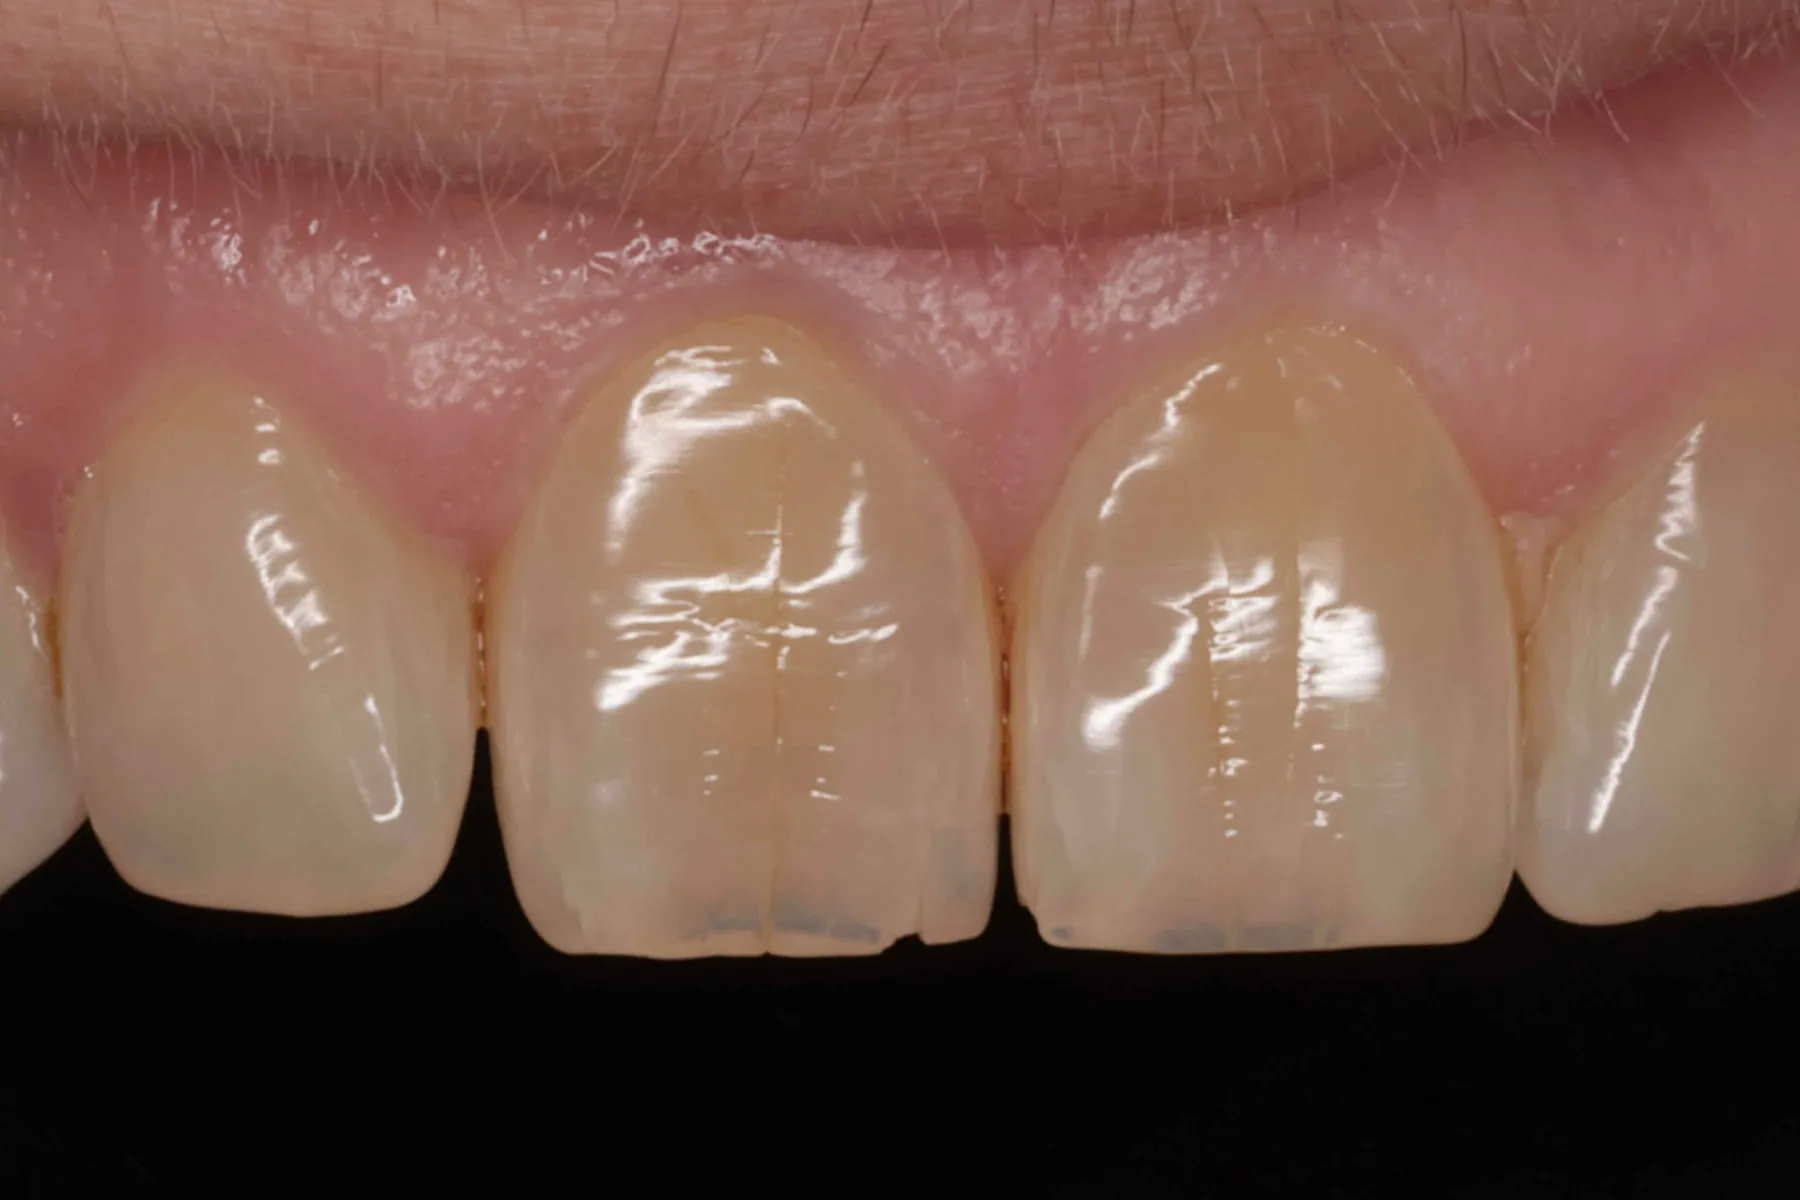
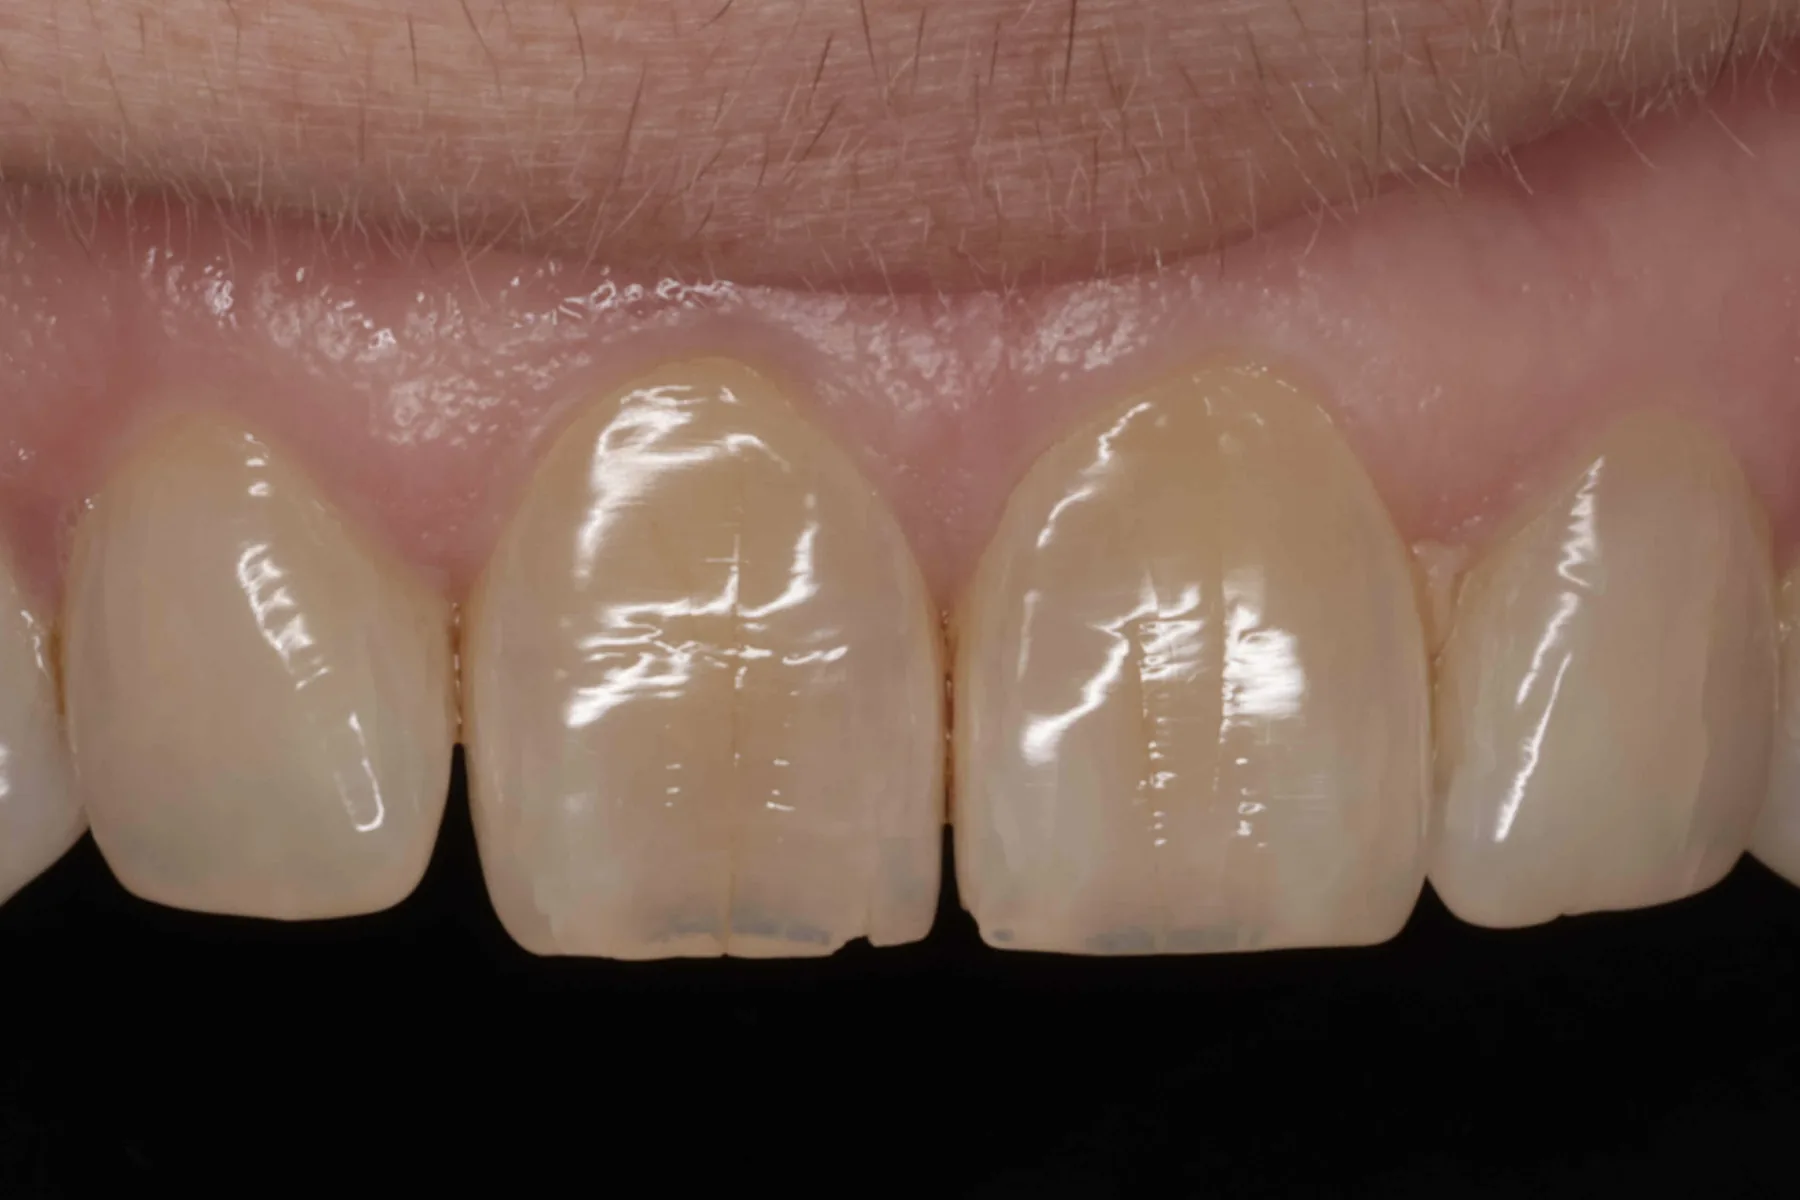
feat(cases): re-cut every before and after pair to register
The slider only reads as one mouth changing if both halves sit on the same
anatomy in the same place in the frame. They did not: each pair is two
sessions with the patient and camera in slightly different positions, and
case 8 in particular stepped visibly at the split line.

Add tools/align-cases.py, which estimates the scale and translation mapping
before onto after, then cuts a 3:2 window that exists in both frames and
sits on the lit subject rather than the frame centre (half of these are
retracted shots on black, where a centred window is mostly void). Re-cut all
nine pairs through it.

The two halves of a pair are no longer the same pixel size. The slider
paints both object-cover into one 3:2 box, so only the ratio has to match,
and sizing each side to what its own source actually holds stops a low-res
before being upscaled to meet its partner while a high-res after is thrown
away to meet its own. Case 8's after gains real detail it did not have
(630px to 1344px), which matters now it is the feature card.

diff --git a/tools/align-cases.py b/tools/align-cases.py
@@ -1,0 +1,232 @@
+#!/usr/bin/env python3
+"""Re-cut the before/after pairs in public/images/cases from the originals.
+
+The slider in BeforeAfterSlider.vue paints both halves of a pair object-cover
+into one 3:2 box and wipes between them. That only reads as one mouth changing
+if the two photographs are *registered*: the same anatomy at the same place in
+the frame. They are not registered as shot, because each pair is two separate
+sessions with the patient and camera in slightly different positions.
+
+So this estimates the uniform scale + translation that maps the before onto the
+after, picks a 3:2 window that exists in both frames and sits on the lit
+subject, and writes the pair out. Run it after swapping a photograph. Editing
+one half of a pair by hand and leaving the other alone is what breaks the
+effect, and the break is easy to miss on a still.
+
+    python3 tools/align-cases.py            # re-cut every pair
+    python3 tools/align-cases.py 8 9        # just these
+    python3 tools/align-cases.py --check    # write comb strips, publish nothing
+
+Needs Pillow, and the gitignored originals in case-originals/. --check writes
+interleaved before/after strips to tools/.check/: at a correct alignment the
+gum line, lip line and tooth boundaries run straight across every strip seam,
+and only the treated teeth ghost.
+"""
+import os
+import sys
+
+from PIL import Image, ImageChops, ImageDraw, ImageFilter, ImageOps, ImageStat
+
+ROOT = os.path.dirname(os.path.dirname(os.path.abspath(__file__)))
+OUT = os.path.join(ROOT, 'public', 'images', 'cases')
+SRC = os.path.join(ROOT, 'case-originals')
+
+AR = 3 / 2      # published aspect; must match the slider's aspect-3/2 box
+MAXW = 1800     # published width cap
+PROXY = 1400    # working resolution for the search
+QUALITY = 82
+
+# The originals were handed over with inconsistent names and extensions, and
+# one typo ("befpre") that is left alone rather than renamed, so that the file
+# on disk still matches what was delivered.
+PAIRS = {
+    1: ('case-1-after.jpeg', 'case-1-before.jpeg'),
+    2: ('case-2-after.jpg', 'case-2-before.jpg'),
+    3: ('case-3-after.JPG', 'case-3-before.JPG'),
+    4: ('case-4-after.jpg', 'case-4-befpre.JPG'),
+    5: ('case-5-after.JPG', 'case-5-before.JPG'),
+    6: ('case-6-after.JPG', 'case-6-before.JPG'),
+    7: ('case-7-after.jpeg', 'case-7-before.jpeg'),
+    8: ('case-8-after.jpeg', 'case-8-before.jpeg'),
+    9: ('case-9-after.jpeg', 'case-9-before.jpeg'),
+}
+
+
+# --- registration ----------------------------------------------------------
+
+def proxy(path):
+    im = Image.open(path)
+    full_w = im.width
+    im.draft('L', (PROXY, PROXY))
+    if im.width > PROXY:
+        im = im.resize((PROXY, round(PROXY * im.height / im.width)), Image.LANCZOS)
+    return im.convert('L'), full_w
+
+
+def prep(g, w):
+    """Blur is the whole trick: it discards tooth texture and shade, which is
+    exactly what the treatment changed, and keeps the structure that has to
+    line up (lip outline, mouth aperture, philtrum, chin)."""
+    h = max(1, round(w * g.height / g.width))
+    s = ImageOps.autocontrast(g.resize((w, h), Image.LANCZOS), cutoff=1)
+    return s.filter(ImageFilter.GaussianBlur(w / 90))
+
+
+def score(A, B, win, dx, dy):
+    """Mean abs difference over a FIXED window of A, so every candidate is
+    judged on the same pixels. Scoring their overlap instead quietly rewards
+    small scales: shrink the before enough and there is less left to disagree,
+    and the search walks off toward a degenerate tiny match."""
+    x0, y0, x1, y1 = win
+    b = (x0 - dx, y0 - dy, x1 - dx, y1 - dy)
+    if b[0] < 0 or b[1] < 0 or b[2] > B.width or b[3] > B.height:
+        return 1e9
+    return ImageStat.Stat(ImageChops.difference(A.crop(win), B.crop(b))).mean[0]
+
+
+def search(ga, gb, width, scales, dxs, dys, nominal):
+    A = prep(ga, width)
+    m = 0.2                                    # judge on the central 60%
+    win = (round(A.width * m), round(A.height * m),
+           round(A.width * (1 - m)), round(A.height * (1 - m)))
+    best = None
+    for s in scales:
+        B = prep(gb, max(8, round(gb.width * s * nominal * width / ga.width)))
+        for dx in dxs:
+            for dy in dys:
+                v = score(A, B, win, dx, dy)
+                if best is None or v < best[0]:
+                    best = (v, s, dx, dy)
+    return best if best and best[0] < 1e8 else (1e9, 1.0, 0, 0)
+
+
+def align(after_path, before_path):
+    """after_xy == before_xy * scale + (tx, ty), in each original's own pixels.
+
+    Coarse pass over a wide scale range, then two refinements at doubling
+    resolution. The range is deliberately wider than any plausible framing
+    difference: a minimum that lands on the edge of the range is not a
+    minimum, and one pair here genuinely sits at 0.84.
+    """
+    ga, aw = proxy(after_path)
+    gb, bw = proxy(before_path)
+    nominal = ga.width / gb.width
+    span = lambda a, b, n: [a + (b - a) * i / (n - 1) for i in range(n)]
+
+    v, s, dx, dy = search(ga, gb, 160, span(0.72, 1.34, 17),
+                          list(range(-34, 35, 2)), list(range(-24, 25, 2)), nominal)
+    W = 160
+    for width, rad, ss in ((320, 7, 0.05), (640, 8, 0.024)):
+        k = width / W
+        dx, dy, W = round(dx * k), round(dy * k), width
+        v, s, dx, dy = search(ga, gb, width, span(s - ss, s + ss, 9),
+                              [dx + i for i in range(-rad, rad + 1)],
+                              [dy + i for i in range(-rad, rad + 1)], nominal)
+    base = search(ga, gb, W, [1.0], [0], [0], nominal)[0]
+    return {'scale': s * aw / bw, 'tx': dx * aw / W, 'ty': dy * aw / W,
+            'residual': v, 'baseline': base}
+
+
+# --- framing ---------------------------------------------------------------
+
+def shared_region(tf, after, before):
+    """The part of the after frame that also exists in the before frame."""
+    s, tx, ty = tf['scale'], tf['tx'], tf['ty']
+    return (max(0, tx) + 1, max(0, ty) + 1,
+            min(after.width, tx + before.width * s) - 1,
+            min(after.height, ty + before.height * s) - 1)
+
+
+def content_box(im, region, thresh=48, sample=400):
+    """Bounding box of the lit subject inside `region`.
+
+    Half of these are retracted intraoral shots on black, where the largest
+    window that merely exists in both frames is mostly void. Framing on the
+    subject is what keeps the teeth big in a 3:2 card. A full-face shot has
+    nothing under the threshold, so this returns `region` and the framing
+    falls back to centred.
+    """
+    r = tuple(round(v) for v in region)
+    crop = im.convert('L').crop(r)
+    k = min(1.0, sample / max(crop.width, crop.height))
+    small = crop.resize((max(1, round(crop.width * k)), max(1, round(crop.height * k))))
+    bb = small.point(lambda v: 255 if v > thresh else 0).getbbox()
+    if not bb:
+        return region
+    return (r[0] + bb[0] / k, r[1] + bb[1] / k, r[0] + bb[2] / k, r[1] + bb[3] / k)
+
+
+def frame_on(valid, content):
+    """Smallest 3:2 window covering `content`, clamped inside `valid`."""
+    cw, ch = content[2] - content[0], content[3] - content[1]
+    vw, vh = valid[2] - valid[0], valid[3] - valid[1]
+    w = min(max(cw, ch * AR), vw, vh * AR)
+    h = w / AR
+    cx = min(max((content[0] + content[2]) / 2, valid[0] + w / 2), valid[2] - w / 2)
+    cy = min(max((content[1] + content[3]) / 2, valid[1] + h / 2), valid[3] - h / 2)
+    return (cx - w / 2, cy - h / 2, cx + w / 2, cy + h / 2)
+
+
+def cut(n, tf, box):
+    """Render both halves of the pair for the shared window `box`.
+
+    Each side is rendered at its own native resolution for that window, so a
+    low-res source is never upscaled to meet its partner and a high-res one is
+    never thrown away — the slider paints both object-cover into one box, so
+    only the ratio has to match, not the pixel count. The width is forced to a
+    multiple of 3 so the ratio is exactly 3:2 and not 1.5007, which
+    object-cover would resolve by cropping the two sides differently and
+    undoing the registration this whole script exists to get.
+    """
+    after = Image.open(os.path.join(SRC, PAIRS[n][0])).convert('RGB')
+    before = Image.open(os.path.join(SRC, PAIRS[n][1])).convert('RGB')
+    s, tx, ty = tf['scale'], tf['tx'], tf['ty']
+    bbox = ((box[0] - tx) / s, (box[1] - ty) / s, (box[2] - tx) / s, (box[3] - ty) / s)
+
+    def fit(im, b):
+        w = int(min(MAXW, b[2] - b[0])) // 3 * 3
+        return im.resize((w, w * 2 // 3), Image.LANCZOS, box=b)
+
+    return fit(before, bbox), fit(after, box)
+
+
+def comb(b, a, W=760):
+    """Interleaved strips: misregistration shows as a step at every seam."""
+    H = round(W / AR)
+    b, a = b.resize((W, H), Image.LANCZOS), a.resize((W, H), Image.LANCZOS)
+    out = b.copy()
+    for x in range(0, W, 56):
+        out.paste(a.crop((x, 0, x + 28, H)), (x, 0))
+    return out
+
+
+def main(argv):
+    check = '--check' in argv
+    wanted = [int(a) for a in argv if a.isdigit()] or sorted(PAIRS)
+    if check:
+        os.makedirs(os.path.join(ROOT, 'tools', '.check'), exist_ok=True)
+    for n in wanted:
+        ap = os.path.join(SRC, PAIRS[n][0])
+        bp = os.path.join(SRC, PAIRS[n][1])
+        tf = align(ap, bp)
+        after, before = Image.open(ap), Image.open(bp)
+        valid = shared_region(tf, after, before)
+        box = frame_on(valid, content_box(after, valid))
+        b, a = cut(n, tf, box)
+        if check:
+            path = os.path.join(ROOT, 'tools', '.check', f'case-{n}.png')
+            sheet = comb(b, a)
+            ImageDraw.Draw(sheet).text((8, 6), f'case {n}', fill=(255, 235, 0))
+            sheet.save(path)
+        else:
+            for im, phase in ((b, 'before'), (a, 'after')):
+                im.save(os.path.join(OUT, f'case-{n}-{phase}.webp'),
+                        'WEBP', quality=QUALITY, method=6)
+        print(f'case {n}: scale={tf["scale"]:.4f} '
+              f't=({tf["tx"]:.0f},{tf["ty"]:.0f}) '
+              f'residual={tf["residual"]:.2f} (unaligned {tf["baseline"]:.2f}) '
+              f'before={b.size} after={a.size}')
+
+
+if __name__ == '__main__':
+    main(sys.argv[1:])
